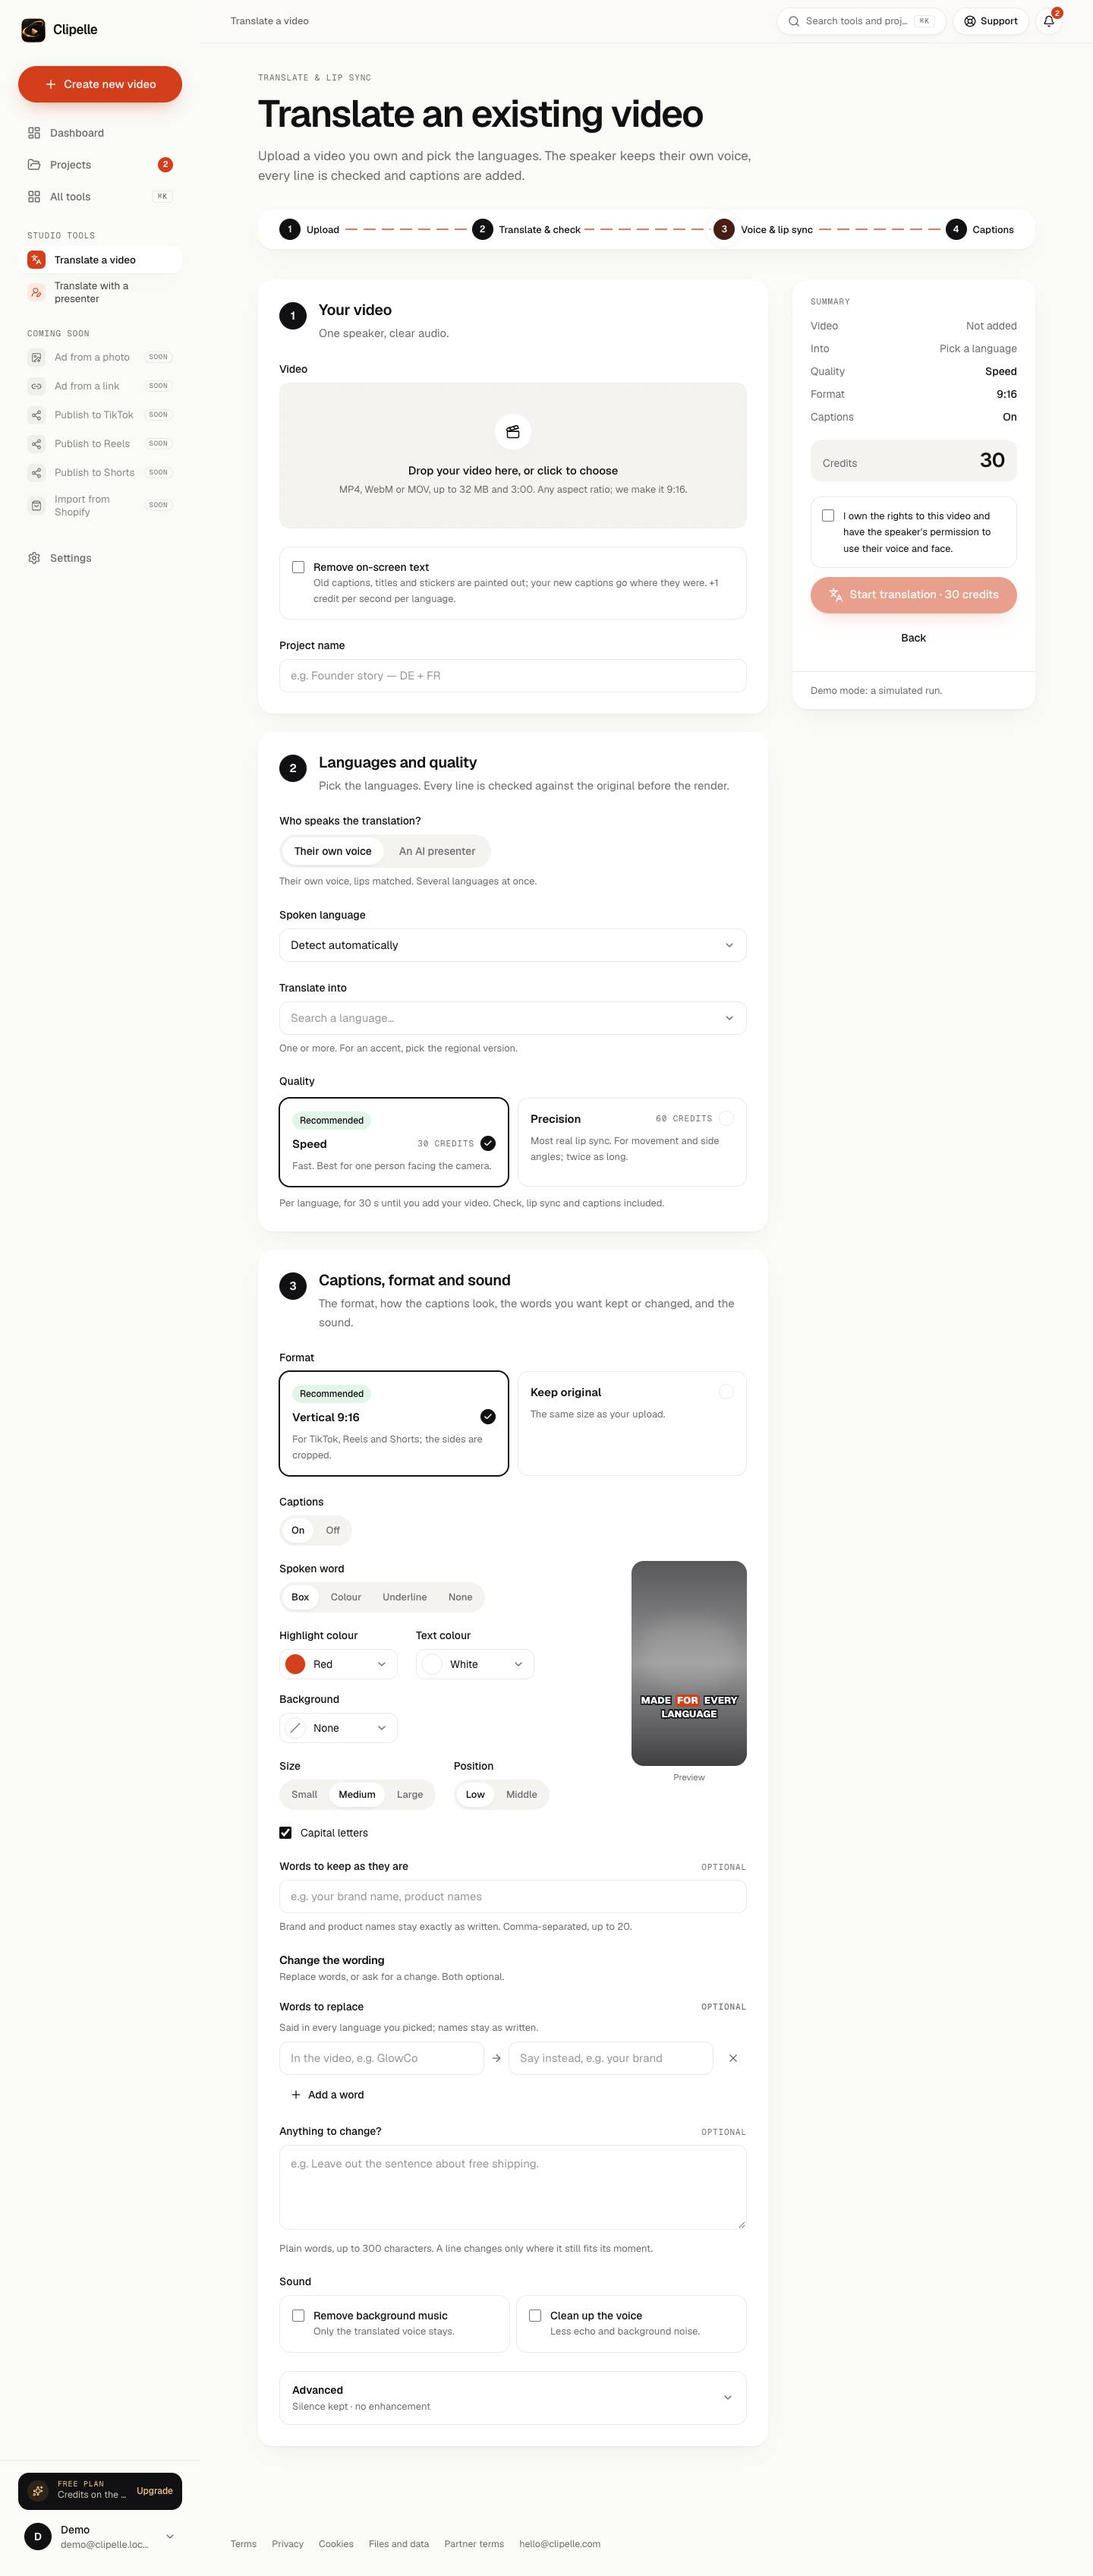
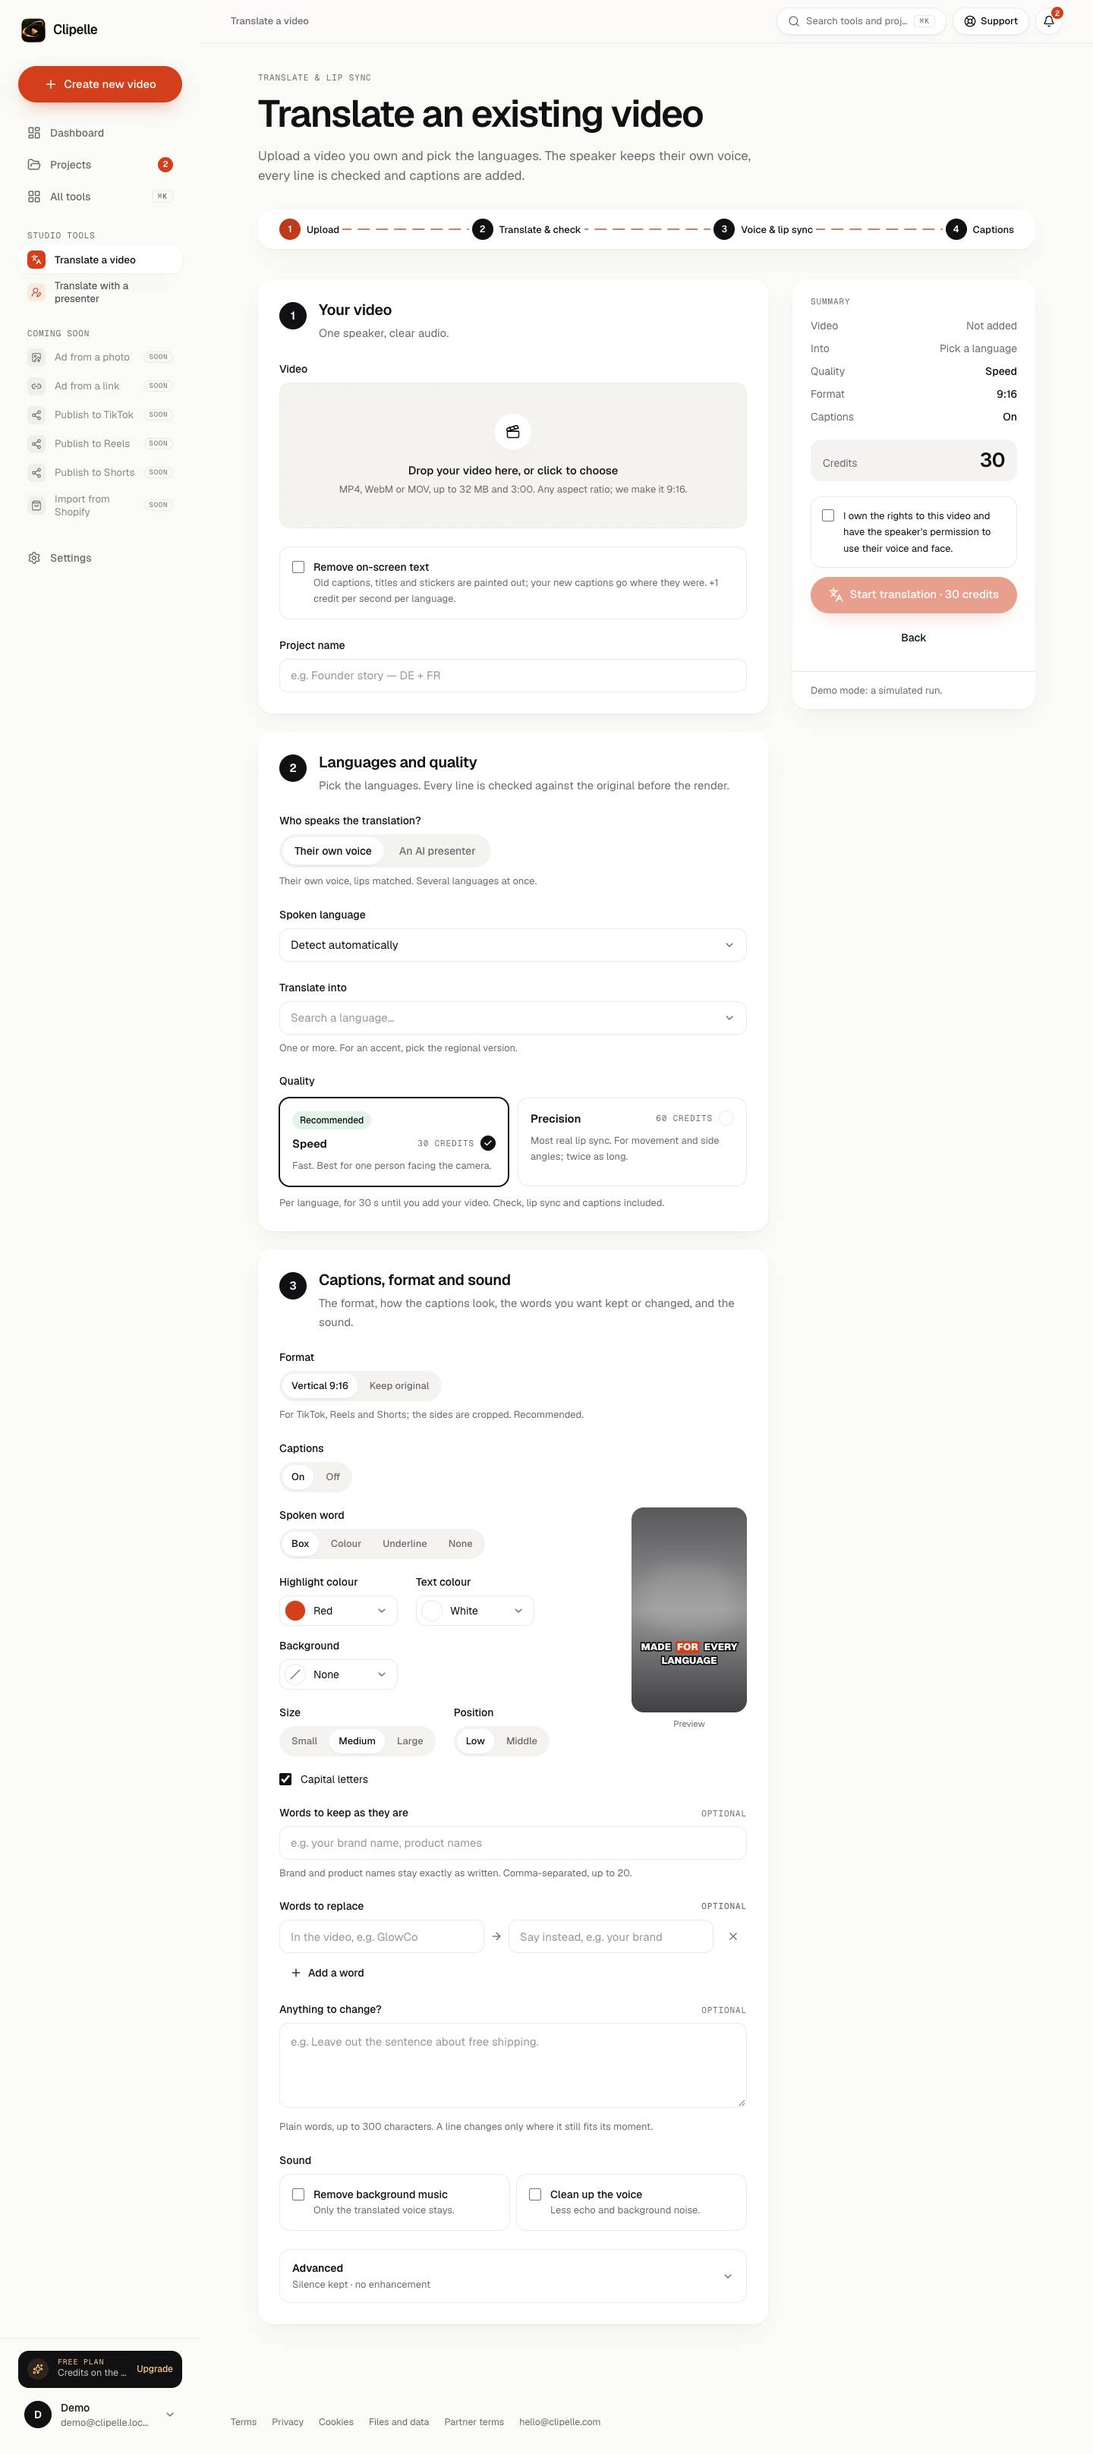
Translate forms: the format is a pill row (Vertical 9:16 / Keep original) with one line of explanation instead of two cards, and the three explanatory lines around the wording fields are gone

diff --git a/src/components/translate/TranslateForm.tsx b/src/components/translate/TranslateForm.tsx
@@ -576,24 +576,8 @@ function TranslateFormFields({ fromAd, fromTranslation, initialSpeaker = "origin
           <div className="space-y-6">
           {!withPresenter && (<fieldset className="space-y-2">
             <legend className="text-sm font-medium text-ink">Format</legend>
-            <OptionGrid columns={2}>
-              {(
-                [
-                  { key: "9:16", title: "Vertical 9:16", text: "For TikTok, Reels and Shorts; the sides are cropped.", recommended: true },
-                  { key: "original", title: "Keep original", text: "The same size as your upload.", recommended: false },
-                ] as const
-              ).map((f) => (
-                <OptionCard
-                  key={f.key}
-                  selected={format === f.key}
-                  onSelect={() => setFormat(f.key)}
-                  disabled={submitting}
-                  title={f.title}
-                  badge={f.recommended ? <Badge tone="success">Recommended</Badge> : undefined}
-                  description={f.text}
-                />
-              ))}
-            </OptionGrid>
+            <SegmentedControl label="Format" size="sm" options={[{ key: "9:16", label: "Vertical 9:16" }, { key: "original", label: "Keep original" }]} value={format} onChange={setFormat} disabled={submitting} />
+            <p className="text-[13px] text-muted">{format === "9:16" ? "For TikTok, Reels and Shorts; the sides are cropped. Recommended." : "The same size as your upload."}</p>
           </fieldset>)}
 
           <CaptionStylePicker value={captionStyle} onChange={setCaptionStyle} position={captionPosition} onPosition={setCaptionPosition} overOldText={removeText && !withPresenter} disabled={submitting} />
@@ -604,13 +588,8 @@ function TranslateFormFields({ fromAd, fromTranslation, initialSpeaker = "origin
           </Field>
 
           <div className="space-y-5">
-            <div>
-              <h3 className="text-[15px] font-semibold text-ink">Change the wording</h3>
-              <p className="text-[13px] text-muted">Replace words, or ask for a change. Both optional.</p>
-            </div>
           <fieldset className="space-y-2">
             <legend className="flex w-full items-center justify-between text-sm font-medium text-ink">Words to replace <span className="label-mono text-muted">Optional</span></legend>
-            <p className="text-[13px] text-muted">Said in every language you picked; names stay as written.</p>
             <div className="space-y-2">
               {replaceRows.map((row, i) => (
                 <div key={i} className="grid grid-cols-[minmax(0,1fr)_auto_minmax(0,1fr)_auto] items-center gap-2">
